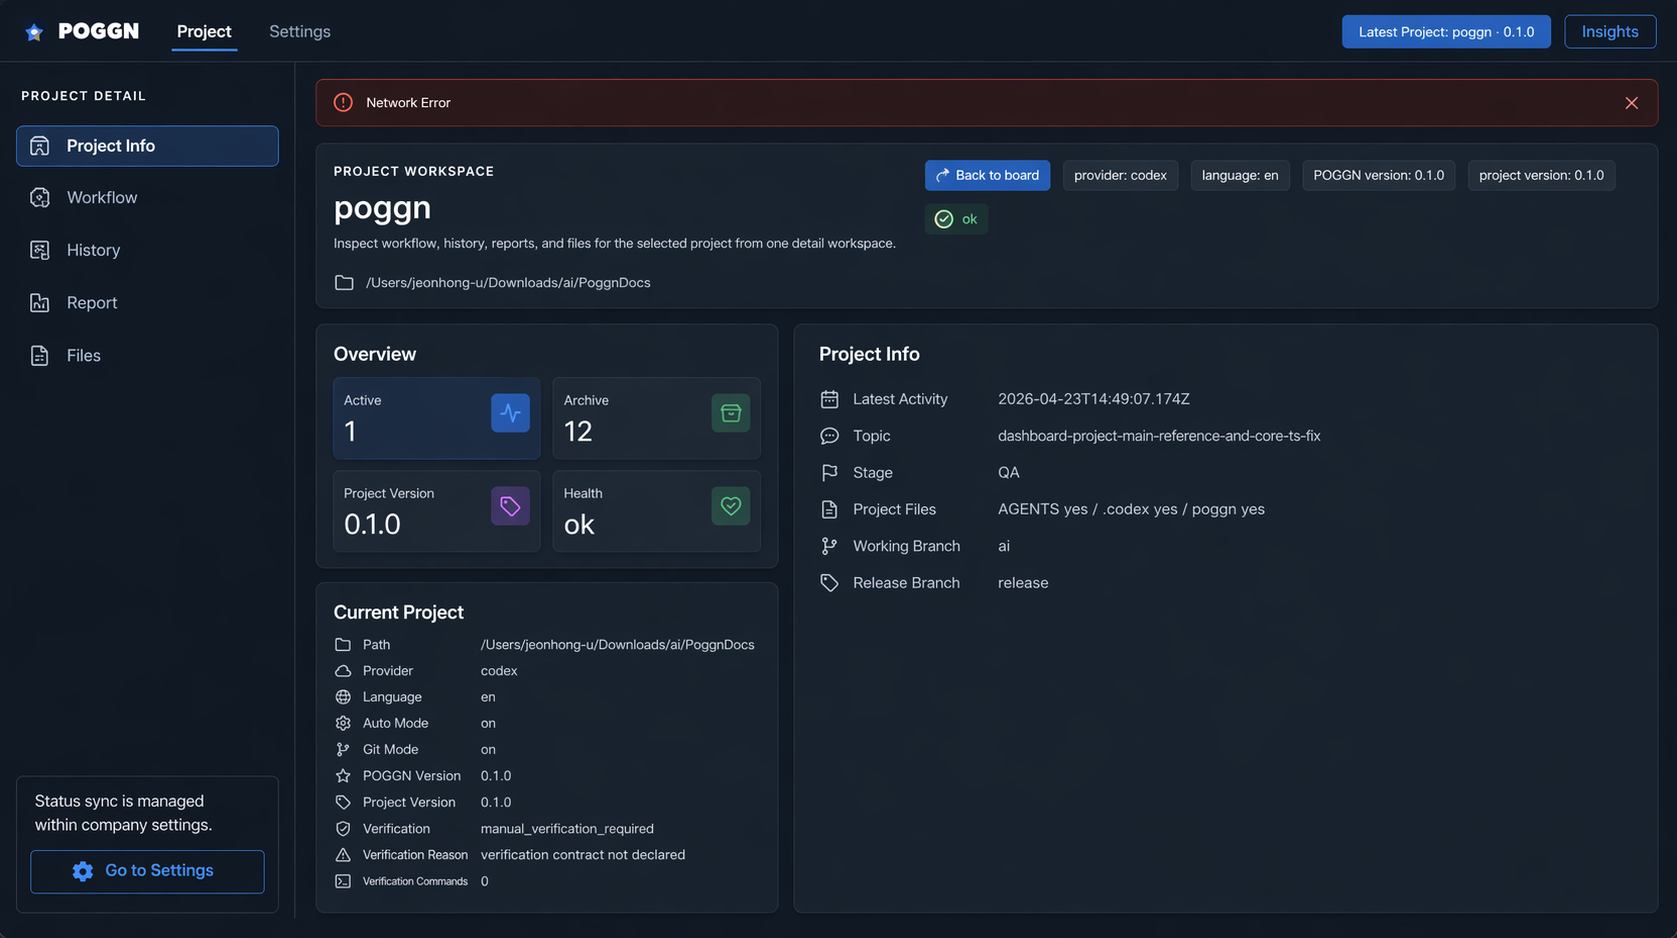
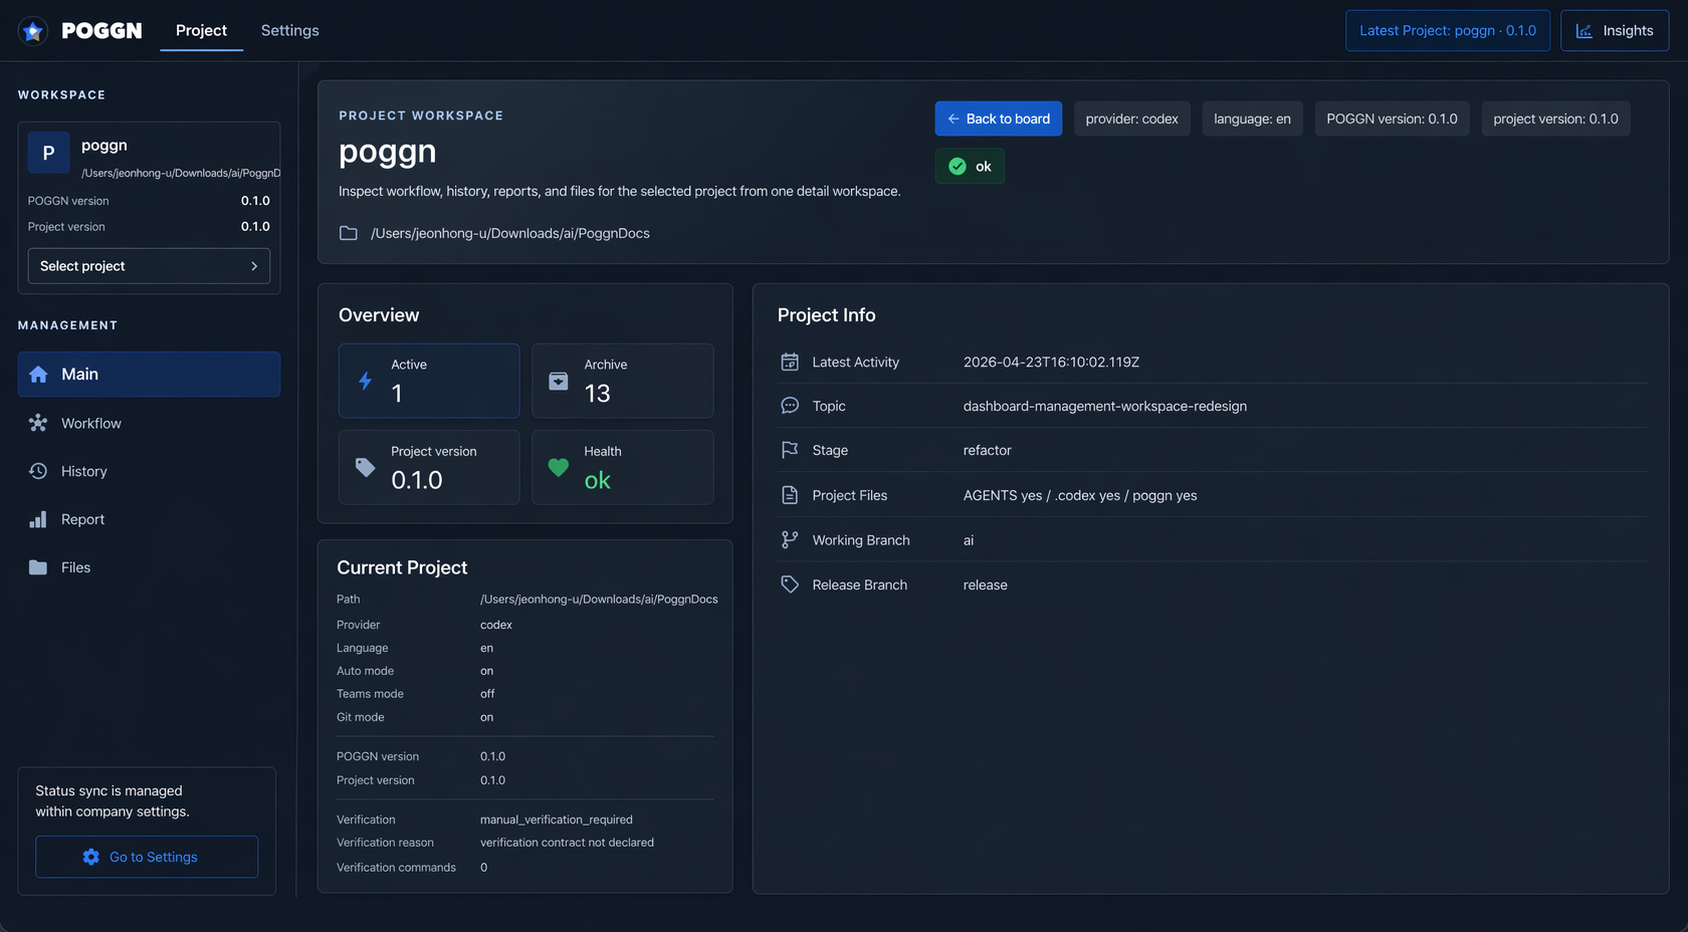
feat: qa completion
Why: QA artifacts and final verification updates need a completion commit before archive publish.

Refs: dashboard-management-workspace-redesign

diff --git a/poggn/active/dashboard-management-workspace-redesign/qa/report.md b/poggn/active/dashboard-management-workspace-redesign/qa/report.md
@@ -1,0 +1,84 @@
+---
+pgg:
+  topic: "dashboard-management-workspace-redesign"
+  stage: "qa"
+  status: "done"
+  skill: "pgg-qa"
+  score: 96
+  updated_at: "2026-04-23T16:15:09Z"
+  archive_type: "feat"
+  project_scope: "current-project"
+reactflow:
+  node_id: "qa-report"
+  node_type: "review"
+  label: "qa/report.md"
+state:
+  summary: "management workspace redesign 구현과 refactor 정리가 QA를 통과해 archive 가능 상태가 되었다."
+  next: "archive"
+---
+
+# QA Report
+
+## Test Plan
+
+- project selector button/modal의 `POGGN version`, `project version` 표기가 유지되는지와 project 전환 시 management workspace 내용 sync가 유지되는지 확인한다.
+- `MANAGEMENT` 아래 `main`, `workflow`, `history`, `report`, `files` surface와 refactor cleanup이 approved spec 범위를 벗어나지 않았는지 확인한다.
+- current-project verification contract가 없으므로 manual verification 상태를 유지하면서 archive 가능 여부를 판정한다.
+- core workflow 산출물이 모두 존재하는지 `pgg-qa` gate로 확인한다.
+
+## Audit Applicability
+
+- [pgg-token]: [not_required] | workflow token 구조 변경이 아니며 blocking audit가 아니다.
+- [pgg-performance]: [not_required] | 시안 대응과 workspace 구조 정리가 중심이며 성능 audit가 blocking 조건이 아니다.
+
+## Execution Results
+
+- `bash ./.codex/sh/pgg-gate.sh pgg-qa dashboard-management-workspace-redesign`
+  - pass
+  - `{"gate":"pass","stage":"pgg-qa"}`
+  - proposal, plan, implementation, refactor, qa 산출물 계약을 충족해 archive gate를 통과했다.
+- `pnpm build`
+  - pass
+  - workspace build가 성공했고 dashboard/core/cli가 함께 컴파일되었다.
+  - dashboard JS chunk `1,685.64 kB` warning은 남지만 build failure는 아니다.
+- `pnpm test`
+  - pass
+  - core test suite 32건이 모두 통과했다.
+  - git publish, stage commit, version/archive helper 경로에 회귀가 없음을 다시 확인했다.
+- current-project verification contract
+  - `manual verification required`
+  - `.pgg/project.json`에 declared verification command가 없어 추가 framework 검증 명령은 추론 실행하지 않았다.
+
+## Test Evidence
+
+- workflow gate: `bash ./.codex/sh/pgg-gate.sh pgg-qa dashboard-management-workspace-redesign` -> `{"gate":"pass","stage":"pgg-qa"}`
+- build evidence: `pnpm build` -> pass, `dist/assets/index-Ccf6VFNU.js 1,685.64 kB`, `✓ built in 545ms`
+- test evidence: `pnpm test` -> pass, `32` tests passed, `0` failed
+- code review evidence: `reviews/code.review.md`, `reviews/refactor.review.md`, `implementation/index.md`
+- manual verification status: `.pgg/project.json`의 verification contract는 declared command 없이 manual mode다.
+
+## Expert Notes
+
+| Expert | Score | Core Judgment | Evidence Checked | Blocking Issue |
+|---|---:|---|---|---|
+| QA/테스트 엔지니어 | 97 | selector metadata, management navigation, workspace sync 변경과 refactor cleanup이 gate/build/test를 모두 통과해 archive pass 판정을 내릴 수 있다. | `bash ./.codex/sh/pgg-gate.sh ...`, `pnpm build`, `pnpm test`, active specs | 없음 |
+| 코드 리뷰어 | 96 | management-only sidebar, `main/workflow/history/report/files` section contract, report/files helper 정리가 approved scope 안에서 유지된다. | `reviews/code.review.md`, `reviews/refactor.review.md`, `implementation/index.md`, source inspection | 없음 |
+| SRE / 운영 엔지니어 | 95 | verification contract는 manual로 유지했고 trusted helper와 declared workspace 명령만 사용해 운영 규약을 지켰다. 남은 위험은 bundle size warning과 UI 수동 확인 범위다. | `.pgg/project.json`, build output, `state/current.md`, publish metadata | 없음 |
+
+## Decision
+
+- pass
+- archive: allowed
+- rollback: none
+- blocking issues: 없음
+
+## Git Publish Message
+
+- title: feat: management workspace
+- why: 프로젝트 선택 메타데이터와 관리형 workspace 구조를 함께 정리해야 선택한 프로젝트 기준의 main, workflow, history, report, files 화면이 일관되게 동작한다.
+- footer: Refs: dashboard-management-workspace-redesign
+
+## Residual Risks
+
+- dashboard bundle chunk warning `1,685.64 kB`는 남아 있어 후속 code-splitting 검토 여지는 있다.
+- current-project verification contract가 manual이라 실제 UI interaction은 브라우저 수동 확인 범위가 남아 있다.

diff --git a/poggn/active/dashboard-management-workspace-redesign/state/current.md b/poggn/active/dashboard-management-workspace-redesign/state/current.md
@@ -6,11 +6,11 @@ dashboard-management-workspace-redesign
 
 ## Current Stage
 
-refactor
+qa
 
 ## Goal
 
-management workspace 구현 뒤 남은 불필요 prop 연결과 helper 중복을 제거하고 refactor 기록을 남긴다.
+management workspace 구현과 refactor 정리를 검증하고 archive 가능 여부를 판정한다.
 
 ## Document Refs
 
@@ -23,6 +23,8 @@ management workspace 구현 뒤 남은 불필요 prop 연결과 helper 중복을
 - implementation index: `poggn/active/dashboard-management-workspace-redesign/implementation/index.md`
 - code review: `poggn/active/dashboard-management-workspace-redesign/reviews/code.review.md`
 - refactor review: `poggn/active/dashboard-management-workspace-redesign/reviews/refactor.review.md`
+- qa review: `poggn/active/dashboard-management-workspace-redesign/reviews/qa.review.md`
+- qa report: `poggn/active/dashboard-management-workspace-redesign/qa/report.md`
 - spec:
   - `poggn/active/dashboard-management-workspace-redesign/spec/ui/project-selector-version-and-sync.md`
   - `poggn/active/dashboard-management-workspace-redesign/spec/ui/management-navigation-shell.md`
@@ -78,8 +80,10 @@ management workspace 구현 뒤 남은 불필요 prop 연결과 helper 중복을
 - CREATE `poggn/active/dashboard-management-workspace-redesign/implementation/index.md`
 - CREATE `poggn/active/dashboard-management-workspace-redesign/reviews/code.review.md`
 - CREATE `poggn/active/dashboard-management-workspace-redesign/reviews/refactor.review.md`
+- CREATE `poggn/active/dashboard-management-workspace-redesign/reviews/qa.review.md`
 - CREATE `poggn/active/dashboard-management-workspace-redesign/reviews/plan.review.md`
 - CREATE `poggn/active/dashboard-management-workspace-redesign/reviews/task.review.md`
+- CREATE `poggn/active/dashboard-management-workspace-redesign/qa/report.md`
 - CREATE `poggn/active/dashboard-management-workspace-redesign/state/current.md`
 - CREATE `poggn/active/dashboard-management-workspace-redesign/state/history.ndjson`
 - CREATE `poggn/active/dashboard-management-workspace-redesign/state/dirty-worktree-baseline.txt`
@@ -94,23 +98,28 @@ management workspace 구현 뒤 남은 불필요 prop 연결과 helper 중복을
 
 ## Last Expert Score
 
+- phase: qa
 - score: 96
 - blocking issues: none
 
+## QA Report
+
+- ref: `poggn/active/dashboard-management-workspace-redesign/qa/report.md`
+
 ## Open Items
 
-- status: refactor completed
-
-## Next Workflow
-
-- `pgg-qa`
-- reason: refactor review와 build 검증까지 마쳐 QA 단계로 넘길 수 있다.
+- status: pass
 
 ## Verification
 
-- project verification: `manual verification required`
-- workspace check: `pnpm build` pass
-- note: current-project verification contract가 선언되어 있지 않다.
+- `pnpm build`: pass
+- `pnpm test`: pass
+- `bash ./.codex/sh/pgg-gate.sh pgg-qa dashboard-management-workspace-redesign`: pass
+- current-project verification contract: `manual verification required`
+
+## Next Action
+
+archive allowed
 
 ## Git Publish Message
 

diff --git a/poggn/active/dashboard-management-workspace-redesign/reviews/qa.review.md b/poggn/active/dashboard-management-workspace-redesign/reviews/qa.review.md
@@ -1,0 +1,27 @@
+---
+pgg:
+  topic: "dashboard-management-workspace-redesign"
+  stage: "review"
+  status: "reviewed"
+  score: 96
+  updated_at: "2026-04-23T16:15:09Z"
+---
+
+# qa.review
+
+## Experts
+
+- 코드 리뷰어
+- QA/테스트 엔지니어
+- SRE / 운영 엔지니어
+
+## Score
+
+- 96
+
+## Notes
+
+- `pnpm build`, `pnpm test`, `bash ./.codex/sh/pgg-gate.sh pgg-qa dashboard-management-workspace-redesign`이 모두 통과했다.
+- management-only sidebar 정리, workspace helper 분리, selector metadata 동기화 이후에도 spec 범위 회귀는 보이지 않는다.
+- verification contract는 manual로 유지했고 추가 framework-specific 검증 명령은 실행하지 않았다.
+- 남은 이슈는 dashboard bundle chunk size warning과 UI 수동 확인 범위뿐이며 archive blocker는 아니다.
